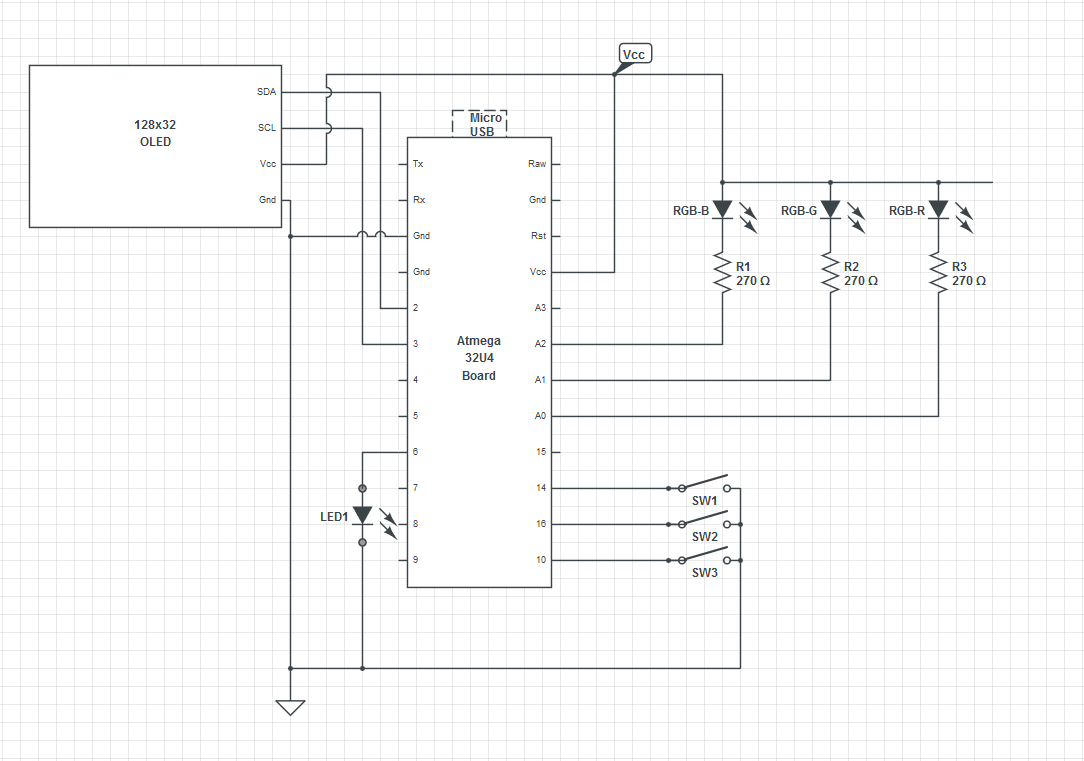
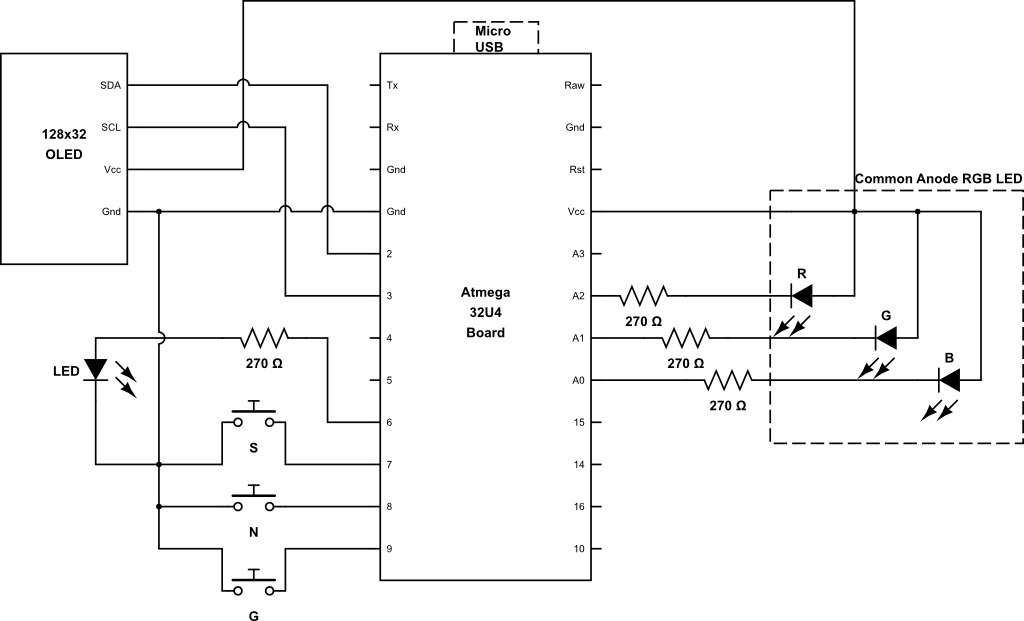
docs

diff --git a/docs/hardware_and_software.md b/docs/hardware_and_software.md
@@ -1,8 +1,8 @@
 # Circuit
 
-The circuit for the PT model U is shown below.  The microprocessor board 
-is a generic ATmega 32U4 "Leonardo" compatible board with a micro-usb connector. 
-The board is available from Aliexpress and other vendors.  
+The circuit for the PT models U and a are shown below.  The microprocessor board 
+is a generic ATmega 32U4 "Leonardo" compatible board with a micro-usb (model U) or 
+USB A (model A) connector.  The boards are available from Aliexpress and other vendors.  
 
 Note that boards like Arduino Nano and similar, which use a 328P processor,
 will not work, since the operation of the project depends on the 32U4's
@@ -11,22 +11,22 @@ ability to act as a USB HID device, emulating a keyboard.
 ![PasswordThing Model U](img/PWT-U.png)
 *PT-U circuit diagram*
 
-The circuit for the model A is the same as shown above, except that it uses
-a smaller board with a USB A interface.  
+![PasswordThing Model A](img/PWT-A.png)
+*PT-A circuit diagram*
 
 Here are the bare boards used for the U and A versions of the project.  
 
 ![Boards](img/boards.JPG)
 *Boards used for model U (left) and A (right)*
 
-Other components needed are:
+The peripheral components needed are:
 	- A common-anode RGB LED (you can use common cathode, but then you
 	  need to adjust the wiring and code appropriately).
 	- A 270 ohm resistor for the R, G and B led channels. The value nay be
 	  tweaked to change brightness. 
-        - A monochrome LED, and another 270 ohm resistor for model U. 
+    - A monochrome LED, and another 270 ohm resistor for model U. 
 	- Three momentary push button switches.  
-        - An optional  128x32 I2C OLED display. 
+    - An optional  128x32 I2C OLED display. 
 
 
 Note  that you would typically not wire in an OLED display for a model A
@@ -93,3 +93,4 @@ loop. Works fine as it is, but there is potentially room for optimization
 there.  
 
 
+[comment]: # (Circuit designs at https://www.circuitlab.com/editor/) 
